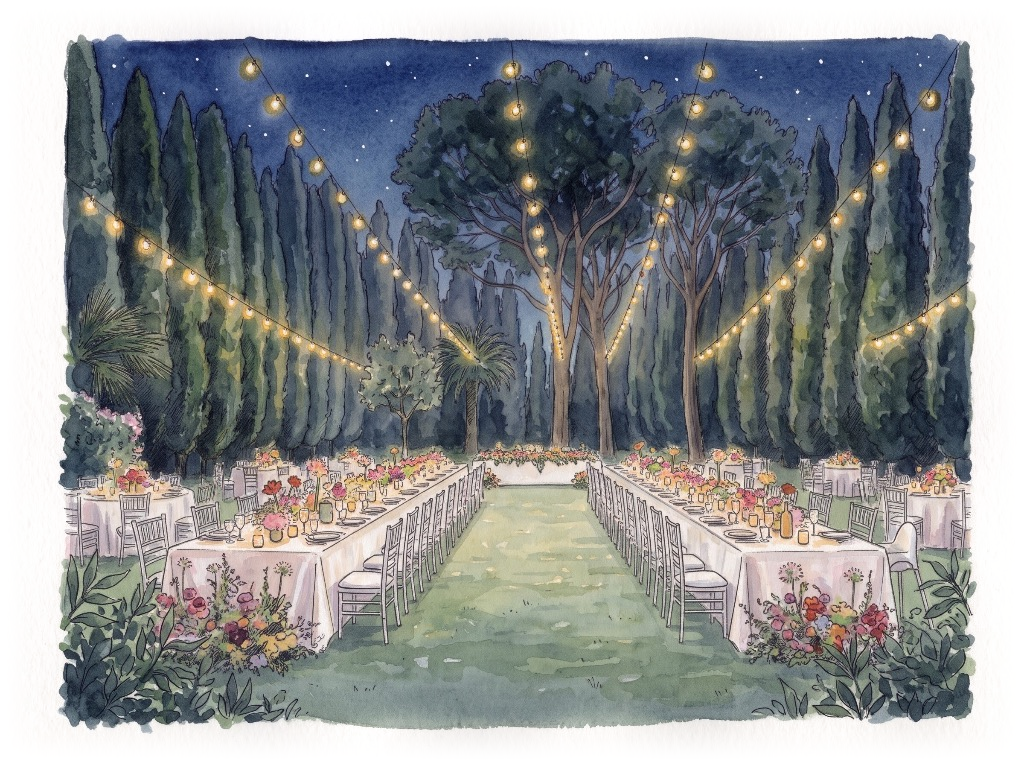
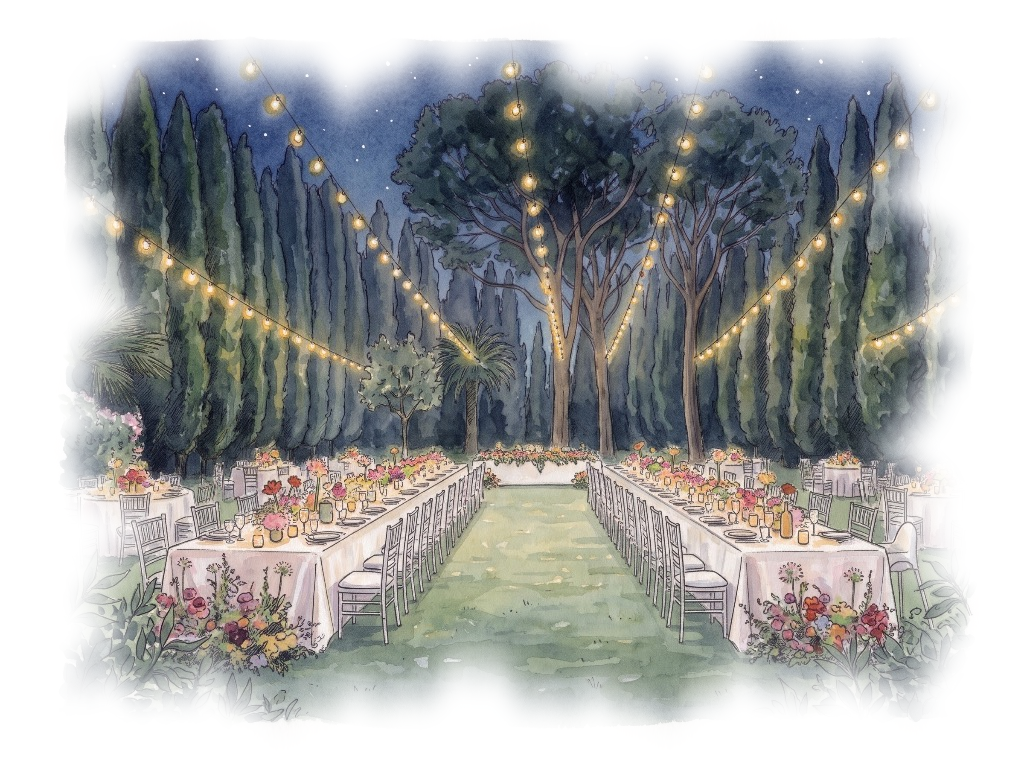
Sfumatura organica a pennellate per cena_luci_sfumato.png (?v=2)

Changed region(s): [[0.0312, 0.0301, 0.9688, 0.9634]]

diff --git a/src/components/Timeline.tsx b/src/components/Timeline.tsx
@@ -146,7 +146,7 @@ export const Timeline: React.FC = () => {
       <div className="mt-8 sm:mt-10 max-w-2xl mx-auto text-center px-2">
         <div className="relative inline-block w-full">
           <img
-            src="./images/cena_luci_sfumato.png"
+            src="./images/cena_luci_sfumato.png?v=2"
             alt="Cena nuziale e festeggiamenti sotto i filari di luci a Tenuta Tana di Volpe"
             className="w-full h-auto max-h-[380px] object-contain mx-auto filter contrast-[1.03]"
             loading="lazy"
